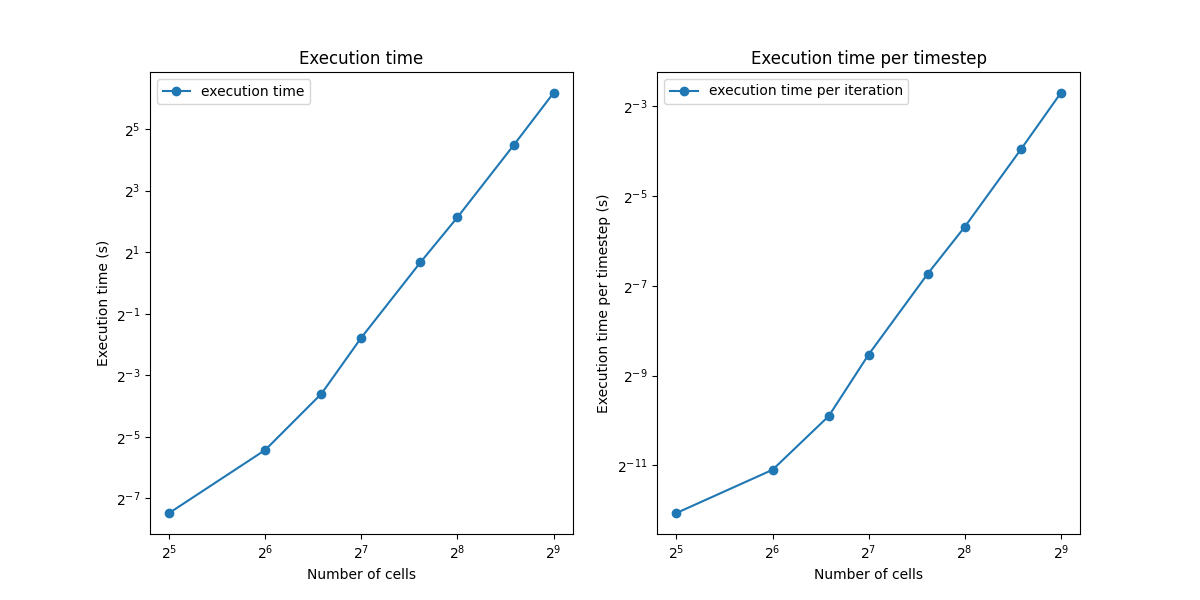
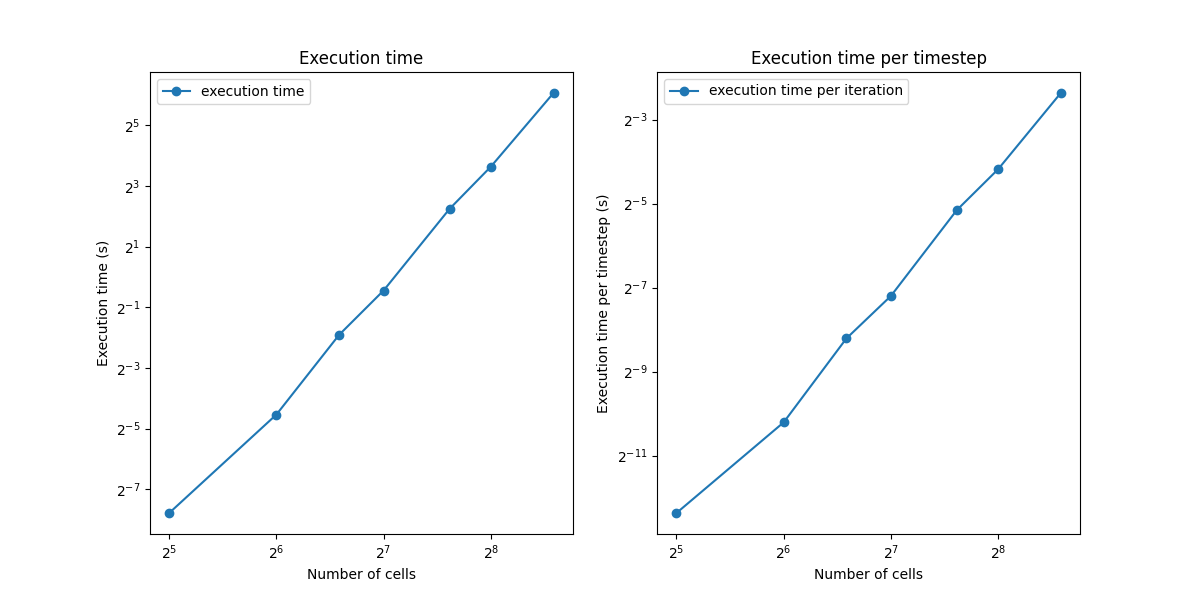
Refactor code structure for improved readability and maintainability

diff --git a/scaling_jax.py b/scaling_jax.py
@@ -6,7 +6,7 @@ Benchmark of the baseline implementation in JAX.
 import os
 
 import jax
-os.environ["CUDA_VISIBLE_DEVICES"] = "3,5,6,7" 
+os.environ["CUDA_VISIBLE_DEVICES"] = "5,6,7,8" 
 
 from tinyfluids.jax_tinyfluids.sharding_helpers import pad, unpad
 from tinyfluids.jax_tinyfluids.time_integration import time_integration
@@ -38,21 +38,20 @@ def setup_ics(num_cells, num_injection_cells=2):
 
     return primitive_state, grid_spacing
 
-def measure_execution_time(primitive_state, grid_spacing, t_final, gamma, shard_mapped):
+def measure_execution_time(primitive_state, grid_spacing, t_final, gamma, shard_mapped, padding = None, split = None):
     # execute once for compilation and warmup
 
-    final_state, num_iterations = time_integration(primitive_state, grid_spacing, t_final, gamma, shard_mapped)
+    final_state, num_iterations = time_integration(primitive_state, grid_spacing, t_final, gamma, shard_mapped, padding, split)
     final_state.block_until_ready()
 
     if shard_mapped:
-        padding = ((0, 0), (1, 1), (1, 1), (0, 0))
         final_state = unpad(final_state, padding, final_state.sharding)
 
     plot_results(final_state)
     
     # Create a function for timing
     def timed_execution():
-        final_state, _ = time_integration(primitive_state, grid_spacing, t_final, gamma, shard_mapped)
+        final_state, _ = time_integration(primitive_state, grid_spacing, t_final, gamma, shard_mapped, padding, split)
         final_state.block_until_ready()  # Ensure execution completes before timing stops
         
     # Measure execution time
@@ -92,7 +91,8 @@ def make_scaling_plots(sharding = False, shard_mapped = False, num_cells_list = 
         primitive_state, grid_spacing = setup_ics(num_cells, num_cells // 16)
 
         if sharding:
-            sharding_mesh = jax.make_mesh((1, 2, 2, 1), (VAR_AXIS, X_AXIS, Y_AXIS, Z_AXIS))
+            split = (1, 2, 2, 1)
+            sharding_mesh = jax.make_mesh(split, (VAR_AXIS, X_AXIS, Y_AXIS, Z_AXIS))
             sharding = jax.NamedSharding(sharding_mesh, P(VAR_AXIS, X_AXIS, Y_AXIS, Z_AXIS))
             primitive_state = jax.device_put(primitive_state, sharding)
 
@@ -101,8 +101,11 @@ def make_scaling_plots(sharding = False, shard_mapped = False, num_cells_list = 
             if shard_mapped:
                 padding = ((0, 0), (1, 1), (1, 1), (0, 0))
                 primitive_state = pad(primitive_state, padding, sharding)
+        else:
+            padding = None
+            split = None
         
-        execution_time, execution_time_per_iteration = measure_execution_time(primitive_state, grid_spacing, t_final, gamma, shard_mapped)
+        execution_time, execution_time_per_iteration = measure_execution_time(primitive_state, grid_spacing, t_final, gamma, shard_mapped, padding, split)
         execution_times.append(execution_time)
         execution_times_per_iteration.append(execution_time_per_iteration)
 
@@ -151,11 +154,14 @@ def make_scaling_plots(sharding = False, shard_mapped = False, num_cells_list = 
     # save the figure
     plt.savefig("figures/scaling{}.png".format(file_appendix))
 
-def plot_scaling_results():
+def plot_scaling_results(plot_sharded = True, plot_sharded_mapped = True):
     # load the data
     data_unsharded = jnp.load("results/scaling_data.npz")
-    data_sharded = jnp.load("results/scaling_data_sharding.npz")
-    data_sharded_mapped = jnp.load("results/scaling_data_shard_mapped.npz")
+
+    if plot_sharded:
+        data_sharded = jnp.load("results/scaling_data_sharding.npz")
+    if plot_sharded_mapped:
+        data_sharded_mapped = jnp.load("results/scaling_data_shard_mapped.npz")
 
     fig, axs = plt.subplots(1, 3, figsize=(15, 5))
 
@@ -163,8 +169,12 @@ def plot_scaling_results():
     fig.suptitle("Scaling for a 3D shock test")
 
     axs[0].plot(data_unsharded["num_cells_list"], data_unsharded["execution_times"], 'o-', label = "unsharded")
-    axs[0].plot(data_sharded["num_cells_list"], data_sharded["execution_times"], 'o-', label = "sharded (4 GPUs)")
-    axs[0].plot(data_sharded_mapped["num_cells_list"], data_sharded_mapped["execution_times"], 'o-', label = "sharded (4 GPUs, shard mapped)")
+
+    if plot_sharded:
+        axs[0].plot(data_sharded["num_cells_list"], data_sharded["execution_times"], 'o-', label = "sharded (4 GPUs)")
+
+    if plot_sharded_mapped:
+        axs[0].plot(data_sharded_mapped["num_cells_list"], data_sharded_mapped["execution_times"], 'o-', label = "sharded (4 GPUs, shard mapped)")
     # set x and y log scale
     axs[0].set_xscale("log", base = 2)
     axs[0].set_yscale("log", base = 2)
@@ -174,8 +184,12 @@ def plot_scaling_results():
     axs[0].set_xlabel("Number of cells per dimension")
     axs[0].set_ylabel("Execution time in s")
     axs[1].plot(data_unsharded["num_cells_list"], data_unsharded["execution_times_per_iteration"], 'o-', label = "unsharded")
-    axs[1].plot(data_sharded["num_cells_list"], data_sharded["execution_times_per_iteration"], 'o-', label = "sharded (4 GPUs)")
-    axs[1].plot(data_sharded_mapped["num_cells_list"], data_sharded_mapped["execution_times_per_iteration"], 'o-', label = "sharded (4 GPUs, shard mapped)")
+
+    if plot_sharded:
+        axs[1].plot(data_sharded["num_cells_list"], data_sharded["execution_times_per_iteration"], 'o-', label = "sharded (4 GPUs)")
+
+    if plot_sharded_mapped:
+        axs[1].plot(data_sharded_mapped["num_cells_list"], data_sharded_mapped["execution_times_per_iteration"], 'o-', label = "sharded (4 GPUs, shard mapped)")
     # set x and y log scale
     axs[1].set_xscale("log", base = 2)
     axs[1].set_yscale("log", base = 2)
@@ -185,15 +199,27 @@ def plot_scaling_results():
     axs[1].set_ylabel("Execution time per timestep in s")
 
     # plot the speedup
-    common_length = min(len(data_unsharded["num_cells_list"]), len(data_sharded["num_cells_list"]))
-    speedup = data_unsharded["execution_times"][0:common_length] / data_sharded["execution_times"][0:common_length]
+    if plot_sharded and not plot_sharded_mapped:
+        common_length = min(len(data_unsharded["num_cells_list"]), len(data_sharded["num_cells_list"]))
+    if plot_sharded_mapped and not plot_sharded:
+        common_length = min(len(data_unsharded["num_cells_list"]), len(data_sharded_mapped["num_cells_list"]))
+    if plot_sharded and plot_sharded_mapped:
+        common_length = min(len(data_unsharded["num_cells_list"]), len(data_sharded["num_cells_list"]), len(data_sharded_mapped["num_cells_list"]))
 
-    speedup_mapped = data_unsharded["execution_times"][0:common_length] / data_sharded_mapped["execution_times"][0:common_length]
+    if plot_sharded:
+        speedup = data_unsharded["execution_times"][0:common_length] / data_sharded["execution_times"][0:common_length]
 
-    axs[2].plot(data_unsharded["num_cells_list"][0:common_length], speedup, 'o-', label = "speedup")
-    axs[2].plot(data_unsharded["num_cells_list"][0:common_length], speedup_mapped, 'o-', label = "speedup (shard mapped)")
+    if plot_sharded_mapped:
+        speedup_mapped = data_unsharded["execution_times"][0:common_length] / data_sharded_mapped["execution_times"][0:common_length]
+
+    if plot_sharded:
+        axs[2].plot(data_unsharded["num_cells_list"][0:common_length], speedup, 'o-', label = "speedup")
+
+    if plot_sharded_mapped:
+        axs[2].plot(data_unsharded["num_cells_list"][0:common_length], speedup_mapped, 'o-', label = "speedup (shard mapped)")
+    
     # theoretical speedup is 4
-    axs[2].plot(data_unsharded["num_cells_list"][0:common_length], jnp.ones_like(speedup) * 4, '--', label = "theoretical speedup")
+    axs[2].plot(data_unsharded["num_cells_list"][0:common_length], jnp.ones_like(data_unsharded["num_cells_list"][0:common_length]) * 4, '--', label = "theoretical speedup")
     axs[2].legend()
     axs[2].set_title("Speedup")
     axs[2].set_xlabel("Number of cells per dimension")
@@ -204,8 +230,8 @@ def plot_scaling_results():
 
 
 
-# make_scaling_plots(sharding = False, shard_mapped = False, num_cells_list = [32, 64, 96, 128, 196, 256, 384, 512])
-make_scaling_plots(sharding = True, shard_mapped = False, num_cells_list  = [32, 64, 96, 128, 196, 256, 384, 512, 768])
-make_scaling_plots(sharding = True, shard_mapped = True, num_cells_list   = [32, 64, 96, 128, 196, 256, 384, 512, 768])
+make_scaling_plots(sharding = False, shard_mapped = False, num_cells_list = [32, 64, 96, 128, 196, 256, 384, 444])
+# # make_scaling_plots(sharding = True, shard_mapped = False, num_cells_list  = [32, 64, 96, 128, 196, 256, 384, 512, 768, 1024])
+make_scaling_plots(sharding = True, shard_mapped = True, num_cells_list   = [32, 64, 96, 128, 196, 256, 384, 444])
 
-plot_scaling_results()
+plot_scaling_results(plot_sharded = False, plot_sharded_mapped = True)

diff --git a/tinyfluids/jax_tinyfluids/sharding_helpers.py b/tinyfluids/jax_tinyfluids/sharding_helpers.py
@@ -1,3 +1,9 @@
+"""NOTE: the way the sharding helpers are written now, the corners / edges are communicated
+in the halo exchange and because they overlap multiple times, which might impact performance, if one does
+not do that we have to be careful that these irrelevant values being 0 does not have a bad effect, e.g.
+in a division at this place a zero comes about and then in a later min operation we get just nan which
+nan-crashes the whole simulation but with nonezero padding, maybe ok"""
+
 # general imports
 from functools import partial
 import jax.numpy as jnp
@@ -22,10 +28,10 @@ def pad(input_array, padding, sharding):
     sharded_pad = shard_map(
         jnp.pad,
         mesh = sharding.mesh,
-        in_specs = (sharding.spec, P()),
+        in_specs = (sharding.spec, P(), None),
         out_specs = sharding.spec,
     )
-    return sharded_pad(input_array, padding)
+    return sharded_pad(input_array, padding, 'edge')
 
 
 def unpad(input_array, padding, sharding):
@@ -67,6 +73,11 @@ def collect_right_along_axis(shard, padding, axis):
         -padding_axis[1],
         axis = axis
     )
+    # selection = tuple(
+    #     slice(padding[i][0], -padding[i][1] if padding[i][1] > 0 else None) if i != axis else slice(-padding_axis[1] - padding_axis[0], -padding_axis[1])
+    #     for i in range(shard.ndim)
+    # )
+    # return shard[selection]
 
 @partial(jax.jit, static_argnames=['padding', 'axis'])
 def collect_left_along_axis(shard, padding, axis):
@@ -77,6 +88,11 @@ def collect_left_along_axis(shard, padding, axis):
         padding_axis[0] + padding_axis[1],
         axis = axis
     )
+    # selection = tuple(
+    #     slice(padding[i][0], -padding[i][1] if padding[i][1] > 0 else None) if i != axis else slice(padding_axis[0], padding_axis[0] + padding_axis[1])
+    #     for i in range(shard.ndim)
+    # )
+    # return shard[selection]
 
 @partial(jax.jit, static_argnames=['padding', 'num_blocks_along_axis', 'axis'])
 def _halo_exchange_along_axis(shard, padding, num_blocks_along_axis, axis):
@@ -92,12 +108,24 @@ def _halo_exchange_along_axis(shard, padding, num_blocks_along_axis, axis):
         (slice(0, padding[axis][0]),) + 
         (slice(None, None),) * (shard.ndim - axis - 1)
         ].set(left)
+
+    # selection_left = tuple(
+    #     slice(padding[i][0], -padding[i][1] if padding[i][1] > 0 else None) if i != axis else slice(0, padding[axis][0])
+    #     for i in range(shard.ndim)
+    # )
+    # shard = shard.at[selection_left].set(left)
     
     shard = shard.at[
         (slice(None, None),) * axis + 
         (slice(-padding[axis][1], None),) + 
         (slice(None, None),) * (shard.ndim - axis - 1)
         ].set(right)
+
+    # selection_right = tuple(
+    #     slice(padding[i][0], -padding[i][1] if padding[i][1] > 0 else None) if i != axis else slice(-padding[axis][1], None)
+    #     for i in range(shard.ndim)
+    # )
+    # shard = shard.at[selection_right].set(right)
 
     return shard
 

diff --git a/tinyfluids/jax_tinyfluids/time_integration.py b/tinyfluids/jax_tinyfluids/time_integration.py
@@ -11,6 +11,7 @@ purposes https://github.com/tumaer/JAXFLUIDS.
 
 # general imports
 from functools import partial
+from types import NoneType
 import jax.numpy as jnp
 import jax
 
@@ -32,13 +33,15 @@ from tinyfluids.jax_tinyfluids.fluid import STATE_TYPE, _cfl_time_step, _evolve_
 # -------------------------------------------------------------
 
 @jaxtyped(typechecker=typechecker)
-@partial(jax.jit, static_argnames=["shard_mapped"])
+@partial(jax.jit, static_argnames=["shard_mapped", "padding", "split"])
 def _time_integration_inner(
     primitive_state: STATE_TYPE,
     grid_spacing: Union[float, Float[Array, ""]],
     t_final: Union[float, Float[Array, ""]],
     gamma: Union[float, Float[Array, ""]],
-    shard_mapped: bool
+    shard_mapped: bool,
+    padding: Union[NoneType, Tuple[Tuple[int, int], ...]] = None,
+    split: Union[NoneType, Tuple[int, ...]] = None,
 ) -> Tuple[STATE_TYPE, Union[float, Int[Array, ""]]]:
     """
     Evolve the state of the fluid in time.
@@ -60,8 +63,6 @@ def _time_integration_inner(
         primitive_state, t, num_iterations = state
 
         if shard_mapped:
-            padding = ((0, 0), (1, 1), (1, 1), (0, 0))
-            split = (1, 2, 2, 1)
             primitive_state = _halo_exchange(primitive_state, padding, split)
 
         # the wave speed calculation is currently done twice, once
@@ -94,7 +95,9 @@ def time_integration(
     grid_spacing: Union[float, Float[Array, ""]],
     t_final: Union[float, Float[Array, ""]],
     gamma: Union[float, Float[Array, ""]],
-    shard_mapped: bool
+    shard_mapped: bool,
+    padding: Union[NoneType, Tuple[Tuple[int, int], ...]] = None,
+    split: Union[NoneType, Tuple[int, ...]] = None,
 ) -> Tuple[STATE_TYPE, Union[float, Int[Array, ""]]]:
     """
     Evolve the state of the fluid in time.
@@ -114,11 +117,11 @@ def time_integration(
         sharded_time_integration = shard_map(
             _time_integration_inner,
             mesh = primitive_state.sharding.mesh,
-            in_specs = (primitive_state.sharding.spec, None, None, None, None),
+            in_specs = (primitive_state.sharding.spec, None, None, None, None, None, None),
             out_specs = (primitive_state.sharding.spec, P()),
             check_rep = False
         )
-        return sharded_time_integration(primitive_state, grid_spacing, t_final, gamma, True)
+        return sharded_time_integration(primitive_state, grid_spacing, t_final, gamma, True, padding, split)
     else:
         return _time_integration_inner(primitive_state, grid_spacing, t_final, gamma, False)
 

diff --git a/scaling_jax_sharding.py b/scaling_jax_sharding.py
@@ -2,7 +2,7 @@ import os
 
 import jax
 
-os.environ["CUDA_VISIBLE_DEVICES"] = "3,5,6,7"
+os.environ["CUDA_VISIBLE_DEVICES"] = "1,2,3,4,5,6,7,8"
 
 from jax.experimental.shard_map import shard_map
 
@@ -45,7 +45,7 @@ def setup_ics(num_cells, num_injection_cells=2):
 
     return primitive_state, grid_spacing
 
-num_cells = 512
+num_cells = 256
 num_injection_cells = num_cells // 16
 primitive_state, grid_spacing = setup_ics(num_cells, num_injection_cells)
 
@@ -57,11 +57,12 @@ shard_mapped = True
 
 # TODO: do outer boarders better
 if shard:
-    sharding_mesh = jax.make_mesh((1, 2, 2, 1), (VAR_AXIS, X_AXIS, Y_AXIS, Z_AXIS))
+    split = (1, 2, 2, 2)
+    sharding_mesh = jax.make_mesh(split, (VAR_AXIS, X_AXIS, Y_AXIS, Z_AXIS))
     sharding = jax.NamedSharding(sharding_mesh, P(VAR_AXIS, X_AXIS, Y_AXIS, Z_AXIS))
     primitive_state = jax.device_put(primitive_state, sharding)
 
-    padding = ((0, 0), (1, 1), (1, 1), (0, 0))
+    padding = ((0, 0), (1, 1), (1, 1), (1, 1))
 
     if shard_mapped:
         primitive_state = pad(primitive_state, padding, sharding)
@@ -70,7 +71,7 @@ print("started first run")
 
 # Execute once for compilation and warmup
 if shard_mapped:
-    final_state, num_iterations = time_integration(primitive_state, grid_spacing, t_final, gamma, shard_mapped)
+    final_state, num_iterations = time_integration(primitive_state, grid_spacing, t_final, gamma, shard_mapped, padding, split)
 else:
     final_state, num_iterations = _time_integration_inner(primitive_state, grid_spacing, t_final, gamma, shard_mapped)
 final_state.block_until_ready()
@@ -84,7 +85,7 @@ plot_results(final_state)
 
 def time_execution():
     if shard_mapped:
-        final_state, _ = time_integration(primitive_state, grid_spacing, t_final, gamma, shard_mapped)
+        final_state, _ = time_integration(primitive_state, grid_spacing, t_final, gamma, shard_mapped, padding, split)
     else:
         final_state, _ = _time_integration_inner(primitive_state, grid_spacing, t_final, gamma, shard_mapped)
     final_state.block_until_ready()

diff --git a/test.py b/test.py
@@ -5,7 +5,7 @@ from jax.sharding import Mesh, PartitionSpec as P, NamedSharding
 from jax import numpy as jnp
 
 import os
-os.environ["CUDA_VISIBLE_DEVICES"] = "5,6,7,8" 
+os.environ["CUDA_VISIBLE_DEVICES"] = "0,1,2,3" 
 
 # general
 from functools import partial
@@ -16,10 +16,10 @@ global_shape = (16, 16, 16)
 
 # Create a mesh of devices based on pdims
 devices = mesh_utils.create_device_mesh(pdims)
-mesh = Mesh(devices, axis_names = ("x", "y"))
+mesh = Mesh(devices, axis_names = (1, 2))
 
 # Define the sharding spec
-sharding = NamedSharding(mesh, P("x", "y"))
+sharding = NamedSharding(mesh, P(1, 2))
 
 # random global array then put to device
 global_array = jax.random.uniform(
@@ -41,7 +41,7 @@ def min_test(array):
     print("Local min:", local_min)
     
     # Use collectives to compute the global minimum across all devices
-    global_min = jax.lax.pmin(local_min, axis_name = ("x", "y"))
+    global_min = jax.lax.pmin(local_min, axis_name = (1.0, 2.0))
     print("Global min:", global_min)
     
     return array
